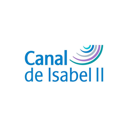
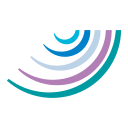
:tada: Release of app Ayudante de sesión del Canal de Isabel II 2026.11.8

Changed region(s): [[0.0312, 0.2188, 0.9688, 0.7812]]

diff --git a/canal-session-helper/CHANGELOG.md b/canal-session-helper/CHANGELOG.md
@@ -1,22 +1,11 @@
-## New entities
+## New icons
 
-The Canal publishes consumption with half a day to a day of delay, so the sensor with the liters of the last hour never said much. Each contract now has entities that describe the last day published in full (#20, #21):
+- The icon is now the Canal's wave symbol alone, without the lettering, so it can be recognised at icon size.
+- Icons and logos have a transparent background, and dark themes get a logo with white lettering. No more white box.
+- The same images are used by the session helper app (#22).
 
-| Entity | Shows |
-|---|---|
-| **Consumo del último día** | Liters of the last full day, with its date as an attribute |
-| **Caudal mínimo del último día** | The quietest hour of that day, in L/h. Close to 0 in a house without leaks |
-| **Posible fuga** | On when the meter has not rested for a single hour in the last 48 published hours |
-| **Datos hasta** | Up to when the Canal has published readings |
+## Documentation
 
-- **Posible fuga** can be tuned for each contract, in the configuration section of its device: the flow that counts as rest (1 L/h by default) and the hours without rest that raise it (48 by default). With data a day late it finds the leaks that last, such as a dripping cistern, not a burst pipe.
-- The hourly sensor is now called **Consumo de la última hora** and is off by default in new installs. If you already had it, it stays on with the same entity id.
-- The meter reading and the hourly statistic for the Energy panel are unchanged.
+- A new section in the README, [El captcha del portal: qué puede fallar](https://github.com/miguelangel-nubla/homeassistant_canal_isabel_II#el-captcha-del-portal-qué-puede-fallar), explains the invisible captcha that guards the login, that it can start asking for challenges or refusing at any time, and what helps: above all, not using the virtual office or the Canal's app while the integration is logging in.
 
-## Fixed
-
-- After the portal refused a login, the notice of an earlier failed try stayed next to the request for the credentials (#19).
-- The notices link to the session helper's browser with a readable link instead of a bare address (#19).
-- Session helper: no double period in its log when the portal's message ends in one.
-
-No changes to the setup: update the integration, restart Home Assistant, and update the session helper when convenient.
+No functional changes. Update the integration and restart Home Assistant; the browser may keep the old icons for a while.

diff --git a/README.md b/README.md
@@ -96,10 +96,10 @@ SOFTWARE.
 
 [addon-add-repo]: https://my.home-assistant.io/redirect/supervisor_add_addon_repository/?repository_url=https%3A%2F%2Fgithub.com%2Fmiguelangel-nubla%2Fhassio-repository
 [addon-add-repo-badge]: https://my.home-assistant.io/badges/supervisor_add_addon_repository.svg
-[addon-canal-session-helper]: https://github.com/miguelangel-nubla/homeassistant_canal_isabel_II/tree/v2026.11.7/canal-session-helper
-[addon-doc-canal-session-helper]: https://github.com/miguelangel-nubla/homeassistant_canal_isabel_II/blob/v2026.11.7/canal-session-helper/DOCS.md
+[addon-canal-session-helper]: https://github.com/miguelangel-nubla/homeassistant_canal_isabel_II/tree/v2026.11.8/canal-session-helper
+[addon-doc-canal-session-helper]: https://github.com/miguelangel-nubla/homeassistant_canal_isabel_II/blob/v2026.11.8/canal-session-helper/DOCS.md
 [canal-session-helper-issue]: https://github.com/miguelangel-nubla/homeassistant_canal_isabel_II/issues
-[canal-session-helper-version-shield]: https://img.shields.io/badge/version-v2026.11.7-blue.svg
+[canal-session-helper-version-shield]: https://img.shields.io/badge/version-v2026.11.8-blue.svg
 [canal-session-helper-aarch64-shield]: https://img.shields.io/badge/aarch64-yes-green.svg
 [canal-session-helper-amd64-shield]: https://img.shields.io/badge/amd64-yes-green.svg
 [canal-session-helper-armhf-shield]: https://img.shields.io/badge/armhf-no-red.svg

diff --git a/canal-session-helper/DOCS.md b/canal-session-helper/DOCS.md
@@ -17,7 +17,7 @@ El ayudante no guarda tus credenciales ni tiene nada que configurar sobre tu cue
 
 El ayudante rellena el formulario de acceso y lo envía, igual que lo harías tú. Antes responde «Permitir todas las cookies» al diálogo de cookies del portal, que tapa la página hasta que se responde.
 
-El formulario lleva un captcha invisible que decide por su cuenta si deja pasar. El ayudante no lo resuelve ni lo esquiva. Cuando no consigue entrar se lo cuenta a la integración, y es Home Assistant quien te avisa:
+El formulario lleva un captcha invisible que decide por su cuenta si deja pasar. El ayudante no lo resuelve ni lo esquiva. Puede empezar a pedir pruebas o a rechazar en cualquier momento; cómo darle las mejores opciones (sobre todo, no usar la web ni la app del Canal a la vez que el ayudante) está en [la guía de la integración](https://github.com/miguelangel-nubla/homeassistant_canal_isabel_II#el-captcha-del-portal-qué-puede-fallar). Cuando no consigue entrar se lo cuenta a la integración, y es Home Assistant quien te avisa:
 
 | Qué ha pasado | Qué hace el ayudante | Qué ves en Home Assistant |
 |---------------|----------------------|---------------------------|
